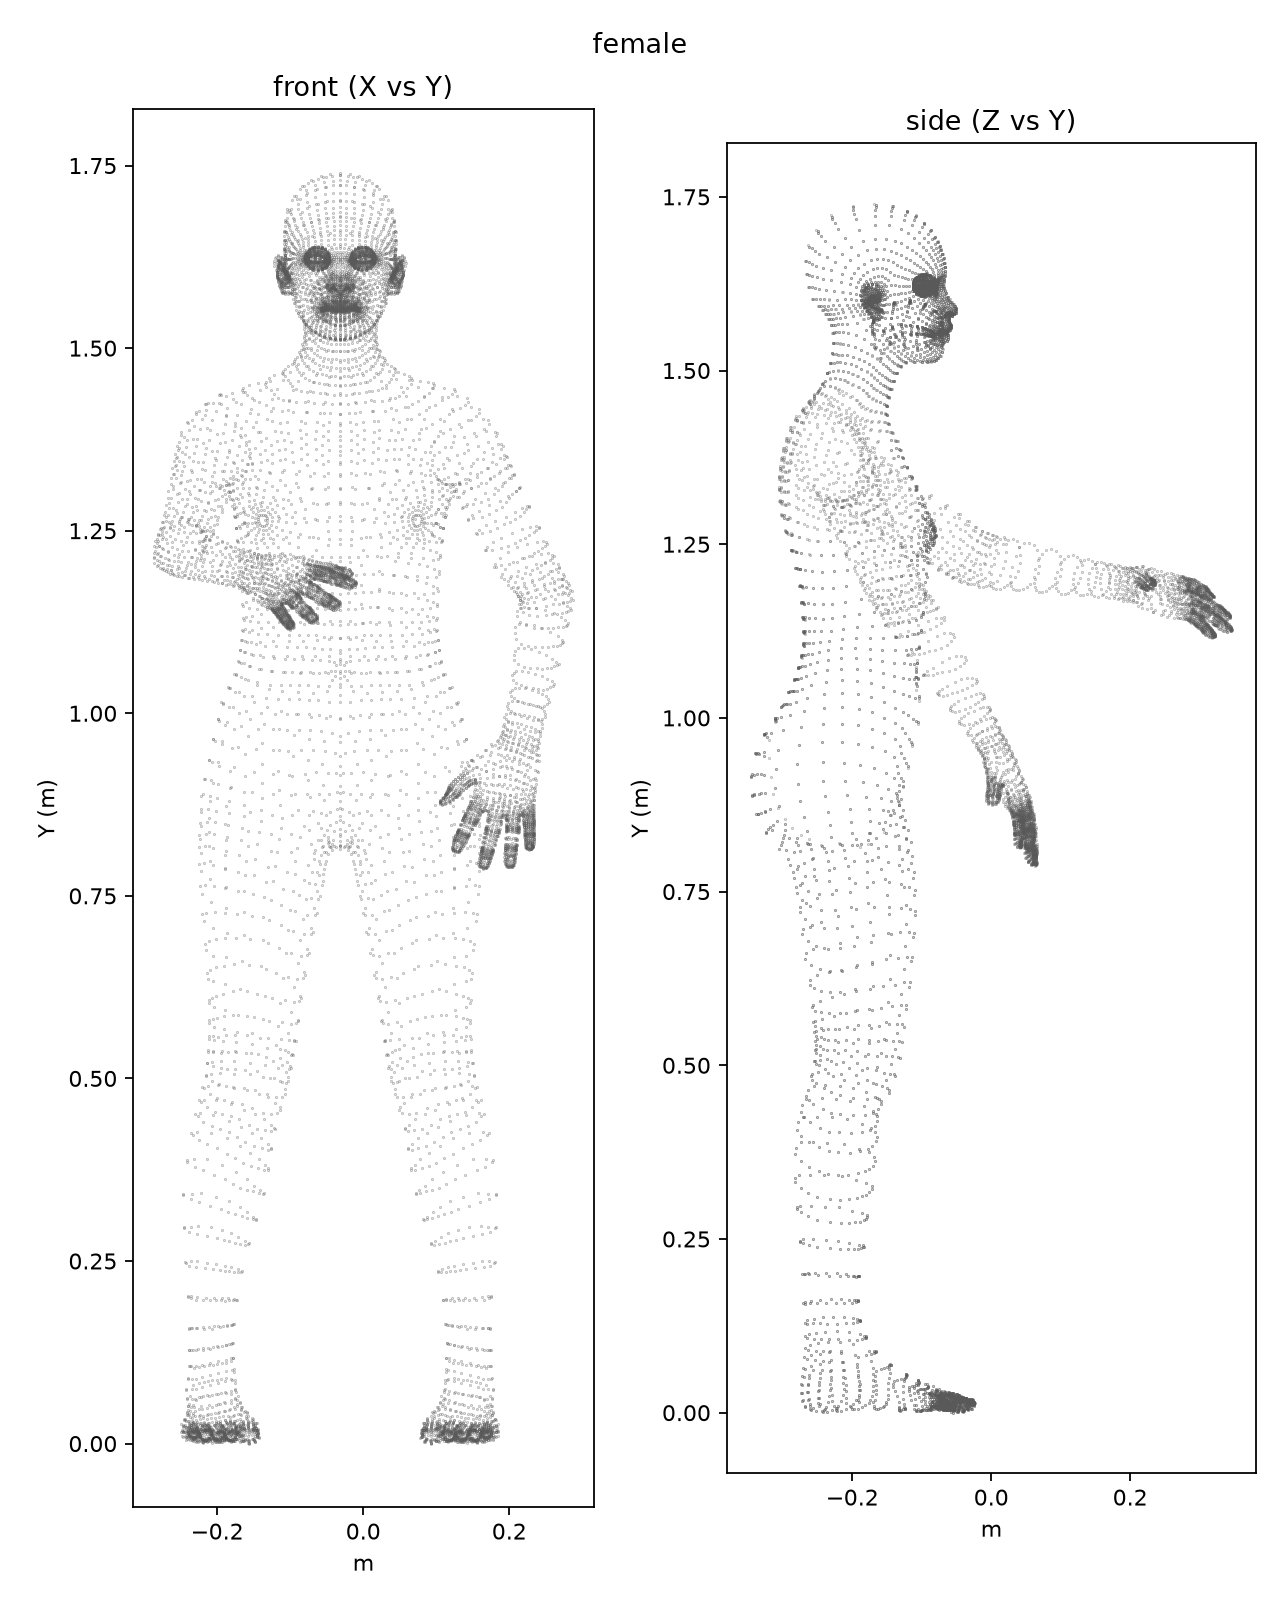
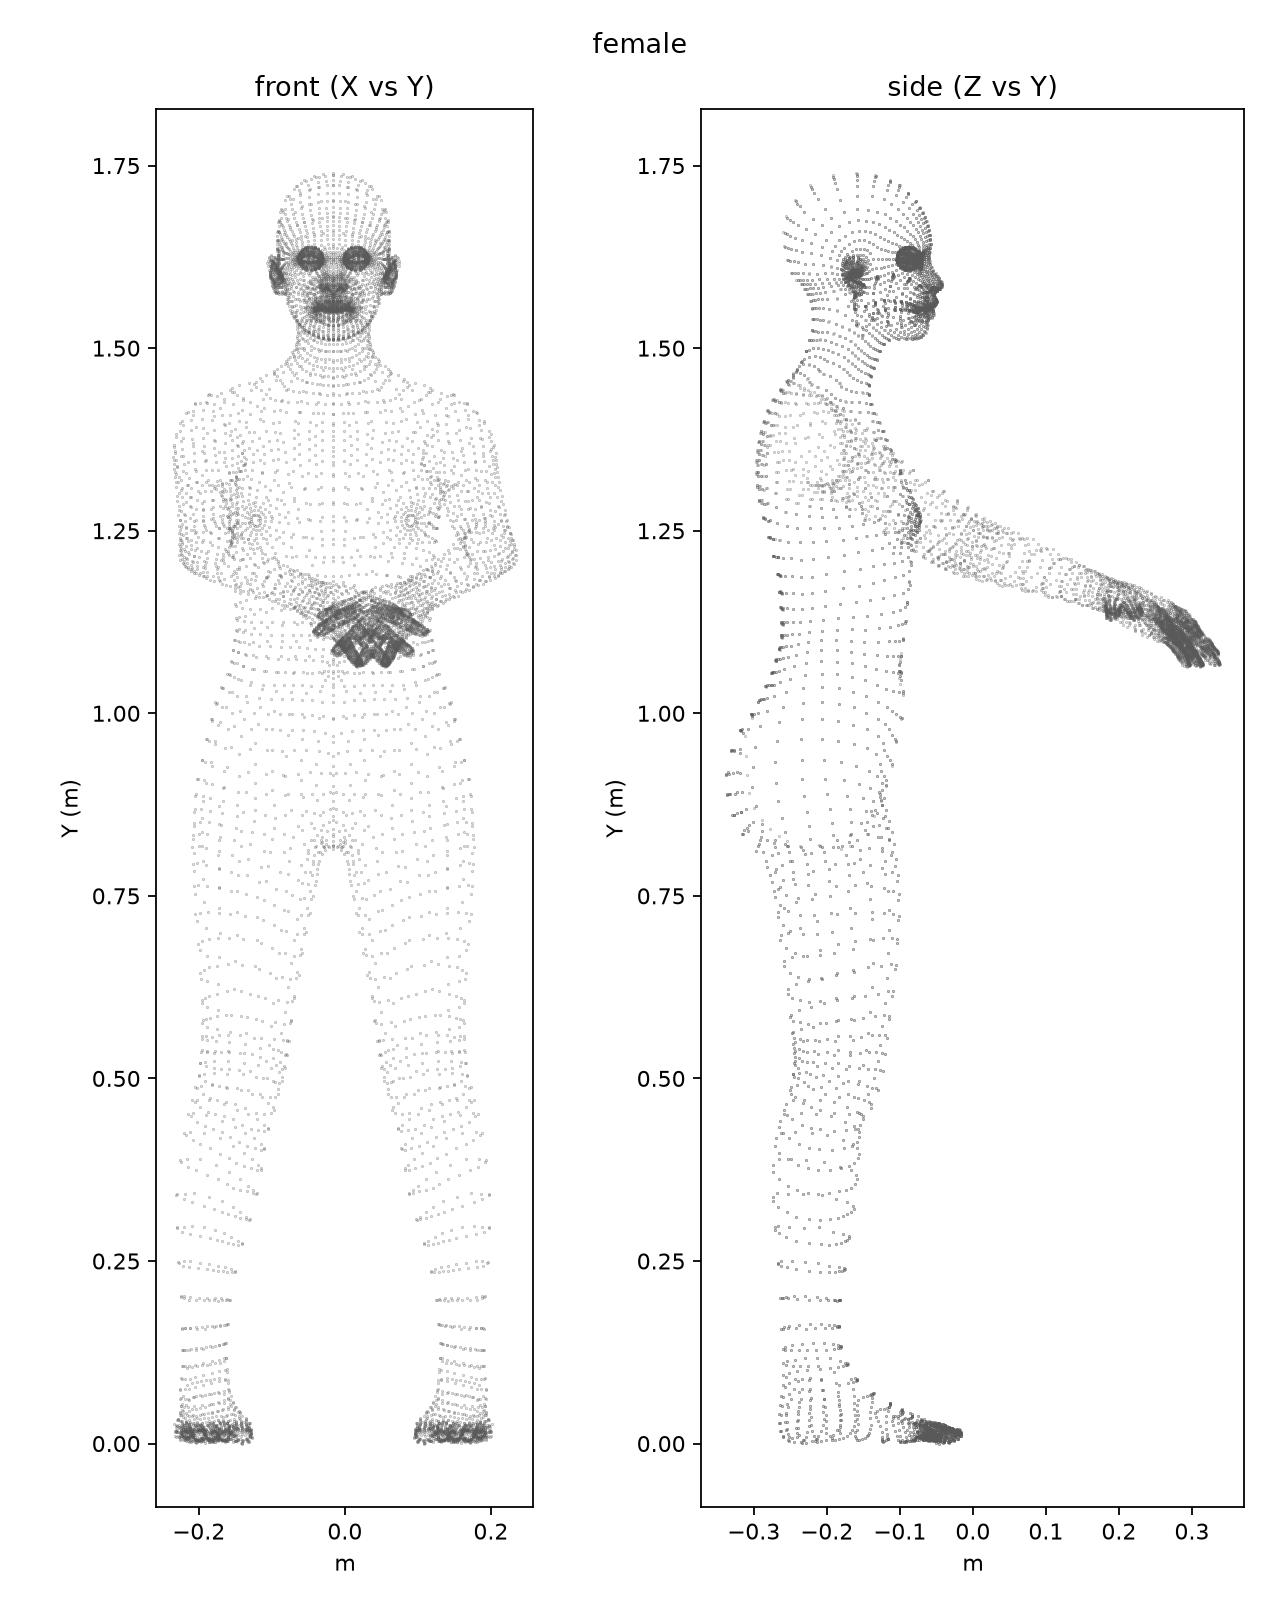
feat(vitals): ship Soldier relaxed arms as pipeline default pose
Align DEFAULT_VITALS_POSE, mesh generation, pose.json example, and dev
presets with the Soldier preset; keep legacy −76° arms as a dev-only preset.
Update review/tuning docs and regenerate pose preview PNGs.

diff --git a/apps/web/src/lib/vitals-pose-arm-presets.ts b/apps/web/src/lib/vitals-pose-arm-presets.ts
@@ -1,29 +1,40 @@
-import { DEFAULT_VITALS_POSE, mergePoseFile, VITALS_POSE_BONES, type VitalsPoseFile } from "@/lib/vitals-pose";
+import {
+  DEFAULT_VITALS_POSE,
+  LEGACY_PIPELINE_POSE,
+  mergePoseFile,
+  VITALS_POSE_BONES,
+  type VitalsPoseFile,
+} from "@/lib/vitals-pose";
 
 export type VitalsPosePreset = { id: string; label: string; hint: string; overrides: VitalsPoseFile };
+
 const identity = Object.fromEntries(VITALS_POSE_BONES.map((label) => [label, { x: 0, y: 0, z: 0 }])) as VitalsPoseFile;
 
 export const VITALS_ARM_AT_SIDE_PRESETS: VitalsPosePreset[] = [
   {
     id: "soldier",
     label: "Soldier · relaxed arms",
-    hint: "Relaxed straight arms with clearance, palms inward and feet slightly closer. Checked against male and female Anny meshes.",
-    overrides: {
-      ...identity,
-      "upperleg01.L": { x: 0, y: 3.3, z: 0 },
-      "upperleg01.R": { x: 0, y: -3.3, z: 0 },
-      "upperarm01.L": { x: 1.2, y: 32.5, z: 0.1 },
-      "upperarm01.R": { x: 1.2, y: -32.5, z: -0.1 },
-      "lowerarm01.L": { x: 32, y: 3.7, z: 27.2 },
-      "lowerarm01.R": { x: 32, y: -3.7, z: -27.2 },
-    },
+    hint: "Shipped pipeline default — relaxed straight arms, palms inward, feet slightly closer.",
+    overrides: {},
   },
-  { id: "repo-default", label: "Saved pipeline defaults", hint: "Existing pipeline baseline.", overrides: {} },
-  { id: "reference", label: "Zero rotations", hint: "Anny reference pose with identity deltas; useful for checking axes.", overrides: identity },
+  {
+    id: "legacy-pipeline",
+    label: "Legacy pipeline (pre-Soldier)",
+    hint: "Former default with arms forward (−76° upperarm Z).",
+    overrides: LEGACY_PIPELINE_POSE,
+  },
+  {
+    id: "reference",
+    label: "Zero rotations",
+    hint: "Anny reference pose with identity deltas; useful for checking axes.",
+    overrides: identity,
+  },
 ];
+
 export function poseFromPreset(preset: VitalsPosePreset) {
   return mergePoseFile(preset.overrides, DEFAULT_VITALS_POSE);
 }
+
 export function findArmSidePreset(id: string) {
   return VITALS_ARM_AT_SIDE_PRESETS.find((preset) => preset.id === id);
 }

diff --git a/apps/web/src/lib/vitals-pose.ts b/apps/web/src/lib/vitals-pose.ts
@@ -21,8 +21,24 @@ export type VitalsPoseBoneLabel = (typeof VITALS_POSE_BONES)[number];
 
 export type VitalsPoseFile = Partial<Record<VitalsPoseBoneLabel, VitalsPoseRot>>;
 
-/** Checked-in defaults; must stay aligned with `mesh_common._default_standing_pose()`. */
+/** Shipped default: Soldier · relaxed arms (must match `mesh_common._default_standing_pose()`). */
 export const DEFAULT_VITALS_POSE: Record<VitalsPoseBoneLabel, VitalsPoseRot> = {
+  "clavicle.L": { x: 0, y: 0, z: 0 },
+  "clavicle.R": { x: 0, y: 0, z: 0 },
+  "shoulder01.L": { x: 0, y: 0, z: 0 },
+  "shoulder01.R": { x: 0, y: 0, z: 0 },
+  "upperarm01.L": { x: 1.2, y: 32.5, z: 0.1 },
+  "upperarm01.R": { x: 1.2, y: -32.5, z: -0.1 },
+  "upperarm02.L": { x: 0, y: 0, z: 0 },
+  "upperarm02.R": { x: 0, y: 0, z: 0 },
+  "lowerarm01.L": { x: 32, y: 3.7, z: 27.2 },
+  "lowerarm01.R": { x: 32, y: -3.7, z: -27.2 },
+  "upperleg01.L": { x: 0, y: 3.3, z: 0 },
+  "upperleg01.R": { x: 0, y: -3.3, z: 0 },
+};
+
+/** Pre–Soldier standing pose (arms forward); dev preset only. */
+export const LEGACY_PIPELINE_POSE: Record<VitalsPoseBoneLabel, VitalsPoseRot> = {
   "clavicle.L": { x: 0, y: 0, z: 5 },
   "clavicle.R": { x: 0, y: 0, z: -5 },
   "shoulder01.L": { x: 0, y: 0, z: 7 },

diff --git a/apps/web/src/lib/vitals-pose-arm-presets.test.ts b/apps/web/src/lib/vitals-pose-arm-presets.test.ts
@@ -1,10 +1,17 @@
 import { describe, expect, it } from "vitest";
-import { VITALS_POSE_BONES } from "@/lib/vitals-pose";
-import { poseFromPreset, VITALS_ARM_AT_SIDE_PRESETS } from "@/lib/vitals-pose-arm-presets";
+import { DEFAULT_VITALS_POSE, VITALS_POSE_BONES } from "@/lib/vitals-pose";
+import { findArmSidePreset, poseFromPreset, VITALS_ARM_AT_SIDE_PRESETS } from "@/lib/vitals-pose-arm-presets";
 
 describe("VITALS_ARM_AT_SIDE_PRESETS", () => {
   it("includes the soldier preset", () => {
     expect(VITALS_ARM_AT_SIDE_PRESETS.some((preset) => preset.id === "soldier")).toBe(true);
+  });
+
+  it("soldier preset matches shipped DEFAULT_VITALS_POSE", () => {
+    const soldier = poseFromPreset(findArmSidePreset("soldier")!);
+    for (const bone of VITALS_POSE_BONES) {
+      expect(soldier[bone]).toEqual(DEFAULT_VITALS_POSE[bone]);
+    }
   });
 
   it("each preset merges to a full bone map", () => {

diff --git a/apps/web/src/app/api/dev/vitals-pose/route.test.ts b/apps/web/src/app/api/dev/vitals-pose/route.test.ts
@@ -28,7 +28,7 @@ describe("vitals-pose dev route", () => {
     const res = await GET(new Request("http://localhost:3000/api/dev/vitals-pose"));
     expect(res.status).toBe(200);
     const body = (await res.json()) as { bones: { "upperarm01.L": { z: number } } };
-    expect(body.bones["upperarm01.L"].z).toBe(-76);
+    expect(body.bones["upperarm01.L"].y).toBe(32.5);
   });
 
   it("persists pose on localhost POST", async () => {

diff --git a/body-pipeline/scripts/lib/mesh_common.py b/body-pipeline/scripts/lib/mesh_common.py
@@ -46,22 +46,20 @@ def bone_label_to_region(label: str) -> int:
 
 
 def _default_standing_pose() -> dict[str, tuple[float, float, float]]:
-    """Repo defaults (degrees, Anny local-ref). Keep in sync with `DEFAULT_VITALS_POSE` (web)."""
+    """Soldier · relaxed arms (degrees, Anny local-ref). Sync with `DEFAULT_VITALS_POSE` (web)."""
     return {
-        "clavicle.L": (0.0, 0.0, 5.0),
-        "clavicle.R": (0.0, 0.0, -5.0),
-        "shoulder01.L": (0.0, 0.0, 7.0),
-        "shoulder01.R": (0.0, 0.0, -7.0),
-        # Anny: upperarm01.R mirrors Z, not X (±X on both sides drops L/R to same height).
-        "upperarm01.L": (-18.0, 0.0, -76.0),
-        "upperarm01.R": (-18.0, 0.0, 76.0),
+        "clavicle.L": (0.0, 0.0, 0.0),
+        "clavicle.R": (0.0, 0.0, 0.0),
+        "shoulder01.L": (0.0, 0.0, 0.0),
+        "shoulder01.R": (0.0, 0.0, 0.0),
+        "upperarm01.L": (1.2, 32.5, 0.1),
+        "upperarm01.R": (1.2, -32.5, -0.1),
         "upperarm02.L": (0.0, 0.0, 0.0),
         "upperarm02.R": (0.0, 0.0, 0.0),
-        "lowerarm01.L": (0.0, 0.0, 0.0),
-        "lowerarm01.R": (0.0, 0.0, 0.0),
-        # Thigh roll (Z): slight inward without the Y abduction that splayed the feet.
-        "upperleg01.L": (0.0, 0.0, -7.0),
-        "upperleg01.R": (0.0, 0.0, 7.0),
+        "lowerarm01.L": (32.0, 3.7, 27.2),
+        "lowerarm01.R": (32.0, -3.7, -27.2),
+        "upperleg01.L": (0.0, 3.3, 0.0),
+        "upperleg01.R": (0.0, -3.3, 0.0),
     }
 
 

diff --git a/docs/reviews/anny-pose-rig.md b/docs/reviews/anny-pose-rig.md
@@ -33,22 +33,28 @@ and now reads the same phenotype configuration as generation. The previous panel
 also reloaded pose.json when sex/auto-preview dependencies changed, losing edits.
 Pose loading now depends only on whether the Anny panel is active.
 
-Three presets replace the ten unverified guesses: existing pipeline defaults,
-identity reference deltas, and Soldier. Soldier was fitted using the actual
+Three presets replace the ten unverified guesses: **Soldier · relaxed arms**
+(now the shipped pipeline default), **legacy pipeline (pre-Soldier)**, and
+**zero reference** identity deltas. Soldier was fitted using the actual
 shoulder/elbow/wrist positions and palm plane, then inspected from front and side
 on male and female meshes. It resets all tunable bones, keeps straight arms close
-to the torso and palms inward; it does not change the shipped pipeline defaults.
-This is a pose preset, not collision-aware IK for arbitrary body shapes.
+to the torso and palms inward. This is a pose preset, not collision-aware IK for
+arbitrary body shapes.
 
 Parity tests use independently generated Anny/PyTorch expectations for both sexes:
-identity, pipeline defaults, every slider axis separately, and combined multi-axis
-rotations across ancestors. They compare every skeleton pivot and surface samples
-chosen from strongest bone influences, within 0.02 mm in display space. Separate
-soldier assertions check arm alignment and clearance. Regenerate fixtures with:
+identity, shipped defaults (`_default_standing_pose()`), every slider axis separately,
+and combined multi-axis rotations across ancestors. They compare every skeleton pivot
+and surface samples chosen from strongest bone influences, within 0.02 mm in display
+space. Separate soldier assertions check arm alignment and clearance. After changing
+defaults, regenerate fixtures and baked point clouds:
 
 ```sh
 body-pipeline/.venv/bin/python3 body-pipeline/scripts/generate_pose_rig_fixtures.py
+pnpm bodies:generate && pnpm bodies:sync
 ```
+
+(Older fixtures used legacy −76° arm defaults in the second pose slot; regen is
+required once Soldier becomes `_default_standing_pose()`.)
 
 Run locally from `/Users/jerryliu/.codex/worktrees/bca0/fitness-battle`:
 
@@ -58,8 +64,8 @@ pnpm bodies:venv
 pnpm dev:web
 ```
 
-Open http://localhost:3000/ux/vitals-body, choose Parametric, then
-**Soldier · arms at sides**. Drag the mesh to orbit; scroll to zoom. Tune a slider
+Open http://localhost:3000/ux/vitals-body, choose Parametric (Soldier is the default).
+Drag the mesh to orbit; scroll to zoom. Tune a slider
 and verify its yellow pivot and both displays. Toggle Show live mesh to inspect
 the skeleton alone. Save pose.json, activate `body-pipeline/.venv`, then run
 `pnpm bodies:generate && pnpm bodies:sync`
@@ -75,7 +81,9 @@ pnpm --filter @fitness-battle/web test src/lib/vitals-pose-rig-layout.test.ts sr
 Verification completed: 14 targeted tests passed, web TypeScript check passed,
 and the browser was exercised with slider changes, male/female switching and
 Front/Side views. The Soldier preview is in `anny-soldier-preview.jpg`.
-No production assets were regenerated and no full production build was run.
+Regenerate `anny-pose-rig.json` and run `pnpm bodies:generate && pnpm bodies:sync` on
+a machine with `pnpm bodies:venv` before merge so baked `.vbody` point clouds match
+Soldier defaults.
 
 Follow-up: corrected the directed palm-plane target (the original preset had the
 palms reversed). The relaxed Soldier preset now rotates the arm chain into the

diff --git a/body-pipeline/docs/pose-tuning.md b/body-pipeline/docs/pose-tuning.md
@@ -5,8 +5,9 @@ once to install Python dependencies. The stage loads the real Anny mesh, skeleto
 reference frames and skin weights; both react to sliders immediately. The first
 load or a saved phenotype change exports a fresh model through the development API.
 
-Choose **Soldier · arms at sides** for straight arms close to the torso with palms
-inward. Existing pipeline defaults and zero reference rotations remain available.
+**Soldier · relaxed arms** is the shipped pipeline default (straight arms, palms
+inward). **Legacy pipeline (pre-Soldier)** and **zero reference** presets remain for
+comparison.
 Pink is anatomical left and blue is right. Focus a slider to mark its pivot yellow.
 Upperarm01/02 and lowerarm01/02 subdivide their respective limbs; they are not
 separate full-length arms. The mesh can be hidden to inspect the skeleton.
@@ -32,8 +33,11 @@ source body-pipeline/.venv/bin/activate
 pnpm bodies:generate && pnpm bodies:sync
 ```
 
-Hard-refresh to see updated point clouds. Live mesh tuning does not change baked
-assets or pipeline defaults until explicitly saved and regenerated. The Soldier
-preset is checked for the standard male/female phenotypes, not a collision solver
-for every custom body shape. See `docs/reviews/anny-pose-rig.md` for the mapping
-review and independent Python/browser parity tests.
+Hard-refresh to see updated point clouds. After changing repo defaults, regenerate
+FK/LBS test fixtures:
+
+```sh
+body-pipeline/.venv/bin/python3 body-pipeline/scripts/generate_pose_rig_fixtures.py
+```
+
+See `docs/reviews/anny-pose-rig.md` for the stick-rig postmortem and parity tests.
